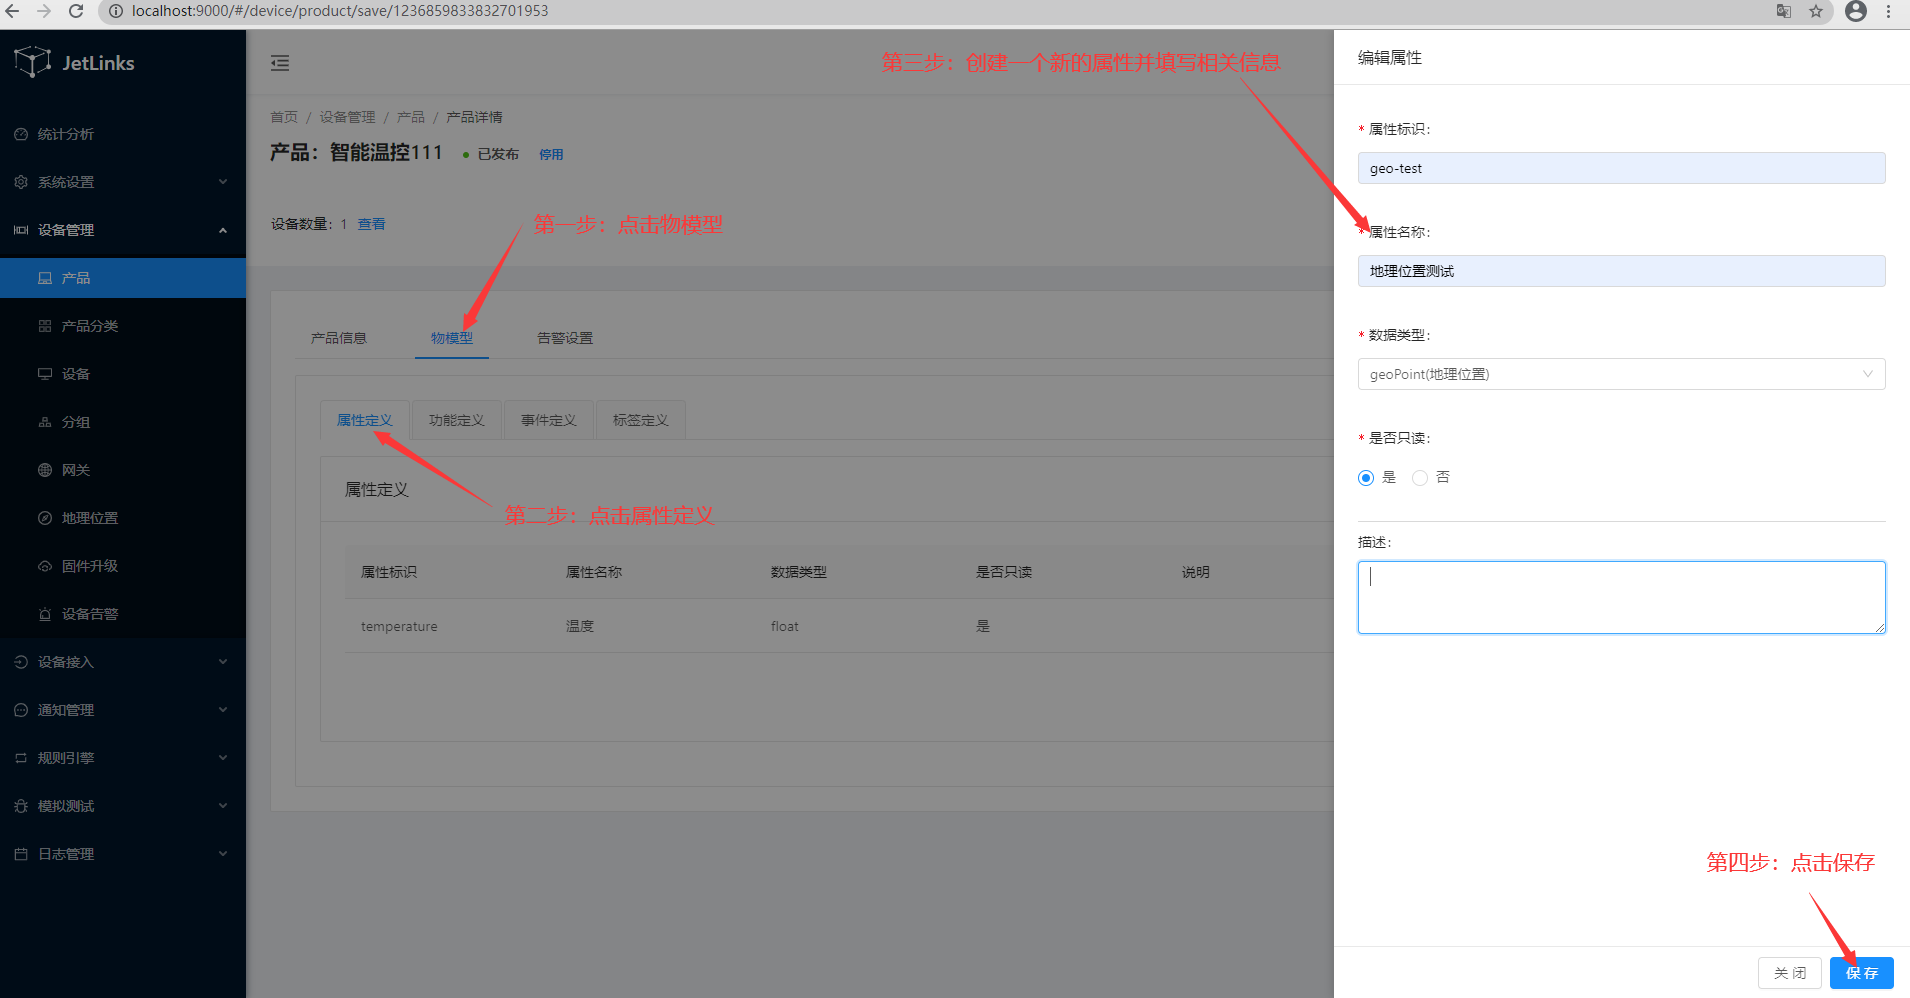
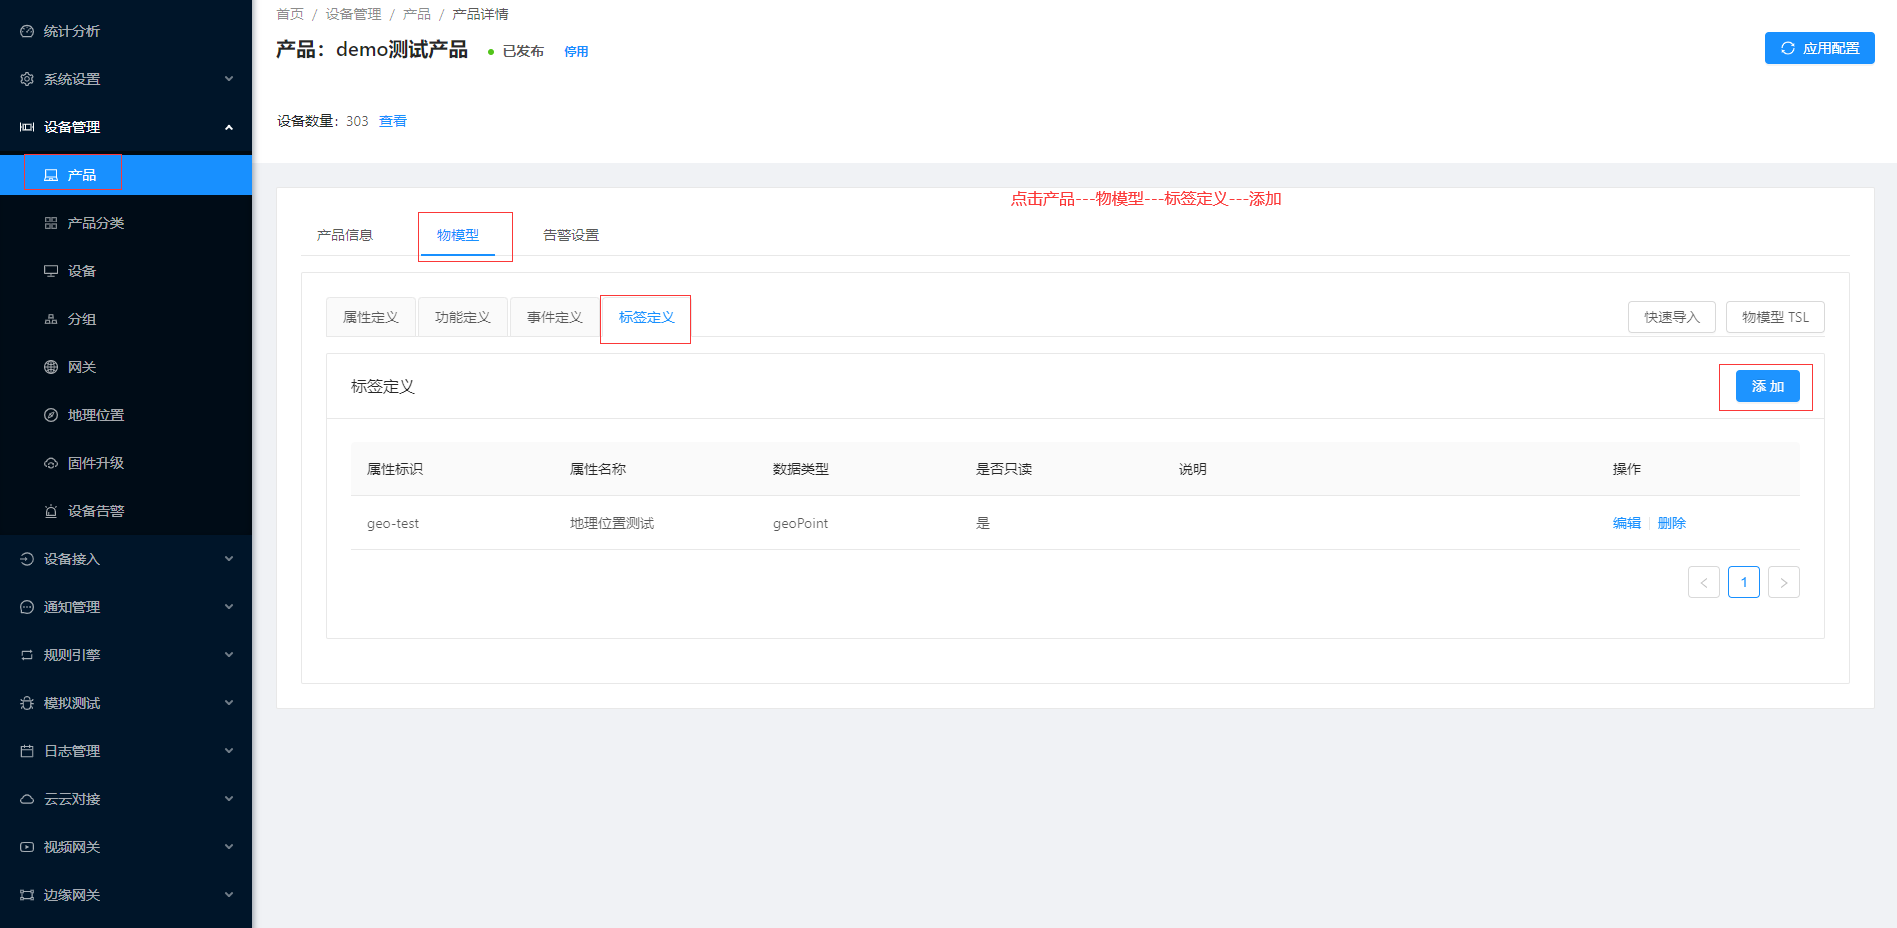
修改文档

diff --git a/basics-guide/device-manager.md b/basics-guide/device-manager.md
@@ -477,7 +477,7 @@ deviceOperator.getSelfConfig(DeviceConfigKey.shadow);
 1. 物模型中添加地理位置。通过标签添加地理位置类型属性。
     
 ![添加地理位置属性](../basics-guide/files/device-connection/insert-geo-property.png)  
-     
+![添加地理位置属性](../basics-guide/files/device-connection/insert-geo-property_one.png)
 2. 在产品详情页面点击`应用配置`按钮。  
 ![应用配置](../basics-guide/files/device-connection/start-model.png)  
 
